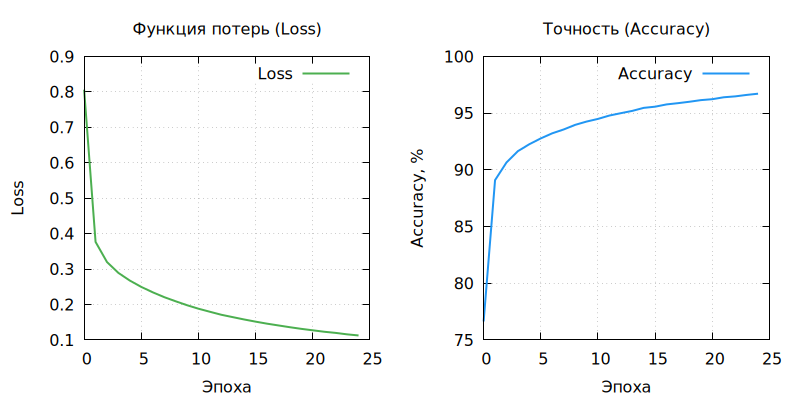
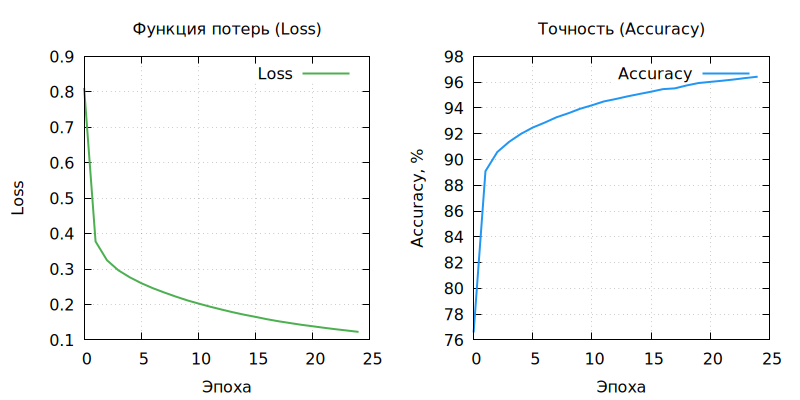
feat: add confusion matrix evaluation and training log
- add confusion_matrix method to NeuralNetwork
- make predict/evaluate/forward const-correct with mutable cache
- evaluate on test dataset after training
- display confusion matrix in console output
- add training log output to docs/training.log
- align training output with iomanip
- update README with confusion matrix and test accuracy

diff --git a/app/console_app/main.cpp b/app/console_app/main.cpp
@@ -4,6 +4,7 @@
 #include <cmath>
 #include <cstring>
 #include <fstream>
+#include <iomanip>
 #include <iostream>
 #include <string>
 #include <vector>
@@ -49,6 +50,41 @@ Matrix load_pgm_image(const std::string &filepath) {
   return img;
 }
 
+void evaluate_model(const NeuralNetwork &network, const std::string &data_dir) {
+  std::cout << "\nEvaluating on test dataset...\n";
+
+  auto test_data = ml::MNISTLoader::load_dataset(
+      data_dir + "/t10k-images-idx3-ubyte",
+      data_dir + "/t10k-labels-idx1-ubyte", 10000);
+
+  double test_accuracy = network.evaluate(test_data.images, test_data.labels);
+  std::cout << "Test accuracy: " << test_accuracy * 100 << "%\n";
+
+  auto cm = network.confusion_matrix(test_data.images, test_data.labels);
+
+  std::cout << "\nConfusion Matrix:\n";
+  std::cout << "    ";
+  for (int j = 0; j < NeuralNetwork::NUM_CLASSES; ++j) {
+    std::cout << std::setw(5) << j;
+  }
+  std::cout << "  | Total\n";
+
+  for (int i = 0; i < NeuralNetwork::NUM_CLASSES; ++i) {
+    std::cout << std::setw(2) << i << " |";
+    int row_sum = 0;
+    for (int j = 0; j < NeuralNetwork::NUM_CLASSES; ++j) {
+      row_sum += cm[i][j];
+      if (cm[i][j] > 0) {
+        std::cout << std::setw(5) << cm[i][j];
+      } else {
+        std::cout << "     ";
+      }
+    }
+    std::cout << "  | " << cm[i][i] << "/" << row_sum;
+    std::cout << "\n";
+  }
+}
+
 void train(const std::string &data_dir, const std::string &model_path,
            size_t epochs, double lr) {
   std::cout << "Loading MNIST dataset...\n";
@@ -68,14 +104,22 @@ void train(const std::string &data_dir, const std::string &model_path,
   std::cout << "Parameters: " << network.num_parameters() << "\n";
   std::cout << "Training " << epochs << " epochs, lr=" << lr << "...\n\n";
 
-  network.train(dataset.images, targets, epochs, lr, 64,
-                [](const TrainingMetrics &m) {
-                  std::cout << "Epoch " << m.epoch << " | Loss: " << m.loss
-                            << " | Accuracy: " << m.accuracy * 100 << "%\n";
-                });
+  network.train(
+      dataset.images, targets, epochs, lr, 64, [](const TrainingMetrics &m) {
+        std::cout << "Epoch " << std::setw(2) << m.epoch
+                  << " | Loss: " << std::setw(10) << std::fixed
+                  << std::setprecision(6) << m.loss
+                  << " | Accuracy: " << std::setw(7) << std::fixed
+                  << std::setprecision(2) << m.accuracy * 100 << "%\n";
+
+        static std::ofstream log("../docs/training.log");
+        log << m.epoch << " " << m.loss << " " << m.accuracy * 100 << "\n";
+      });
 
   network.save(model_path);
   std::cout << "\nModel saved to " << model_path << "\n";
+
+  evaluate_model(network, data_dir);
 }
 
 void predict(const std::string &model_path, const std::string &image_path) {

diff --git a/lib/ml/src/neural_network.cpp b/lib/ml/src/neural_network.cpp
@@ -15,7 +15,7 @@ NeuralNetwork::NeuralNetwork(const std::vector<LayerConfig> &config) {
   initialize_weights(config);
 }
 
-math::Matrix NeuralNetwork::forward(const math::Matrix &input) {
+math::Matrix NeuralNetwork::forward(const math::Matrix &input) const {
   layer_inputs_.clear();
   layer_outputs_.clear();
 
@@ -165,7 +165,7 @@ NeuralNetwork::train(const std::vector<math::Matrix> &inputs,
   return metrics;
 }
 
-int NeuralNetwork::predict(const math::Matrix &input) {
+int NeuralNetwork::predict(const math::Matrix &input) const {
   // прямой проход
   math::Matrix output = forward(input);
 
@@ -174,7 +174,8 @@ int NeuralNetwork::predict(const math::Matrix &input) {
       output.begin(), std::max_element(output.begin(), output.end())));
 }
 
-std::vector<double> NeuralNetwork::predict_proba(const math::Matrix &input) {
+std::vector<double>
+NeuralNetwork::predict_proba(const math::Matrix &input) const {
   // прямой проход
   math::Matrix output = forward(input);
 
@@ -183,7 +184,7 @@ std::vector<double> NeuralNetwork::predict_proba(const math::Matrix &input) {
 }
 
 double NeuralNetwork::evaluate(const std::vector<math::Matrix> &inputs,
-                               const std::vector<int> &labels) {
+                               const std::vector<int> &labels) const {
   size_t correct = 0;
 
   // сравнение предсказания с истинной меткой для каждого примера
@@ -211,6 +212,21 @@ size_t NeuralNetwork::num_parameters() const {
   }
 
   return count;
+}
+
+std::vector<std::vector<int>>
+NeuralNetwork::confusion_matrix(const std::vector<math::Matrix> &inputs,
+                                const std::vector<int> &labels) const {
+  std::vector<std::vector<int>> matrix(NUM_CLASSES,
+                                       std::vector<int>(NUM_CLASSES, 0));
+
+  for (size_t i = 0; i < inputs.size(); ++i) {
+    int pred = predict(inputs[i]);
+    int actual = labels[i];
+    matrix[actual][pred]++;
+  }
+
+  return matrix;
 }
 
 void NeuralNetwork::save(const std::string &filepath) const {

diff --git a/lib/ml/include/ml/neural_network.hpp b/lib/ml/include/ml/neural_network.hpp
@@ -24,7 +24,7 @@ public:
   NeuralNetwork() = default;
   explicit NeuralNetwork(const std::vector<LayerConfig> &config);
 
-  math::Matrix forward(const math::Matrix &input);
+  math::Matrix forward(const math::Matrix &input) const;
   void backward(const math::Matrix &input, const math::Matrix &target,
                 double learning_rate);
 
@@ -34,16 +34,23 @@ public:
         double learning_rate, size_t batch_size = 32,
         std::function<void(const TrainingMetrics &)> callback = nullptr);
 
-  int predict(const math::Matrix &input);
-  std::vector<double> predict_proba(const math::Matrix &input);
+  int predict(const math::Matrix &input) const;
+  std::vector<double> predict_proba(const math::Matrix &input) const;
   double evaluate(const std::vector<math::Matrix> &inputs,
-                  const std::vector<int> &labels);
+                  const std::vector<int> &labels) const;
 
   void save(const std::string &filepath) const;
   void load(const std::string &filepath);
 
   size_t num_layers() const { return weights_.size(); }
   size_t num_parameters() const;
+
+  std::vector<std::vector<int>>
+  confusion_matrix(const std::vector<math::Matrix> &inputs,
+                   const std::vector<int> &labels) const;
+
+public:
+  static constexpr int NUM_CLASSES = 10;
 
 private:
   std::vector<math::Matrix> weights_;

diff --git a/tests/test_neural_network.cpp b/tests/test_neural_network.cpp
@@ -28,7 +28,8 @@ TEST_F(NeuralNetworkTest, constructor) {
 }
 
 TEST_F(NeuralNetworkTest, constructor_empty_config) {
-  EXPECT_THROW(NeuralNetwork(std::vector<LayerConfig>{}), std::invalid_argument);
+  EXPECT_THROW(NeuralNetwork(std::vector<LayerConfig>{}),
+               std::invalid_argument);
 }
 
 TEST_F(NeuralNetworkTest, forward) {

diff --git a/README.md b/README.md
@@ -29,8 +29,11 @@
     ├── CMakeLists.txt              # Корневой сценарий сборки
     ├── data                        # Данные MNIST и модели
     │   ├── model.bin               # Обученная модель
-    │   ├── README.md
-    │   └── ...
+    │   ├── README.md               # Инструкция по скачиванию датасета
+    │   ├── t10k-images-idx3-ubyte  # Тестовые изображения
+    │   ├── t10k-labels-idx1-ubyte  # Тестовые метки
+    │   ├── train-images-idx3-ubyte # Обучающие изображения
+    │   └── train-labels-idx1-ubyte # Обучающие метки
     ├── docs                        # Документация приложения
     │   ├── plot.gnuplot            # Скрипт для построения
     │   ├── screenshot.png          # Скриншот главного окна GUI
@@ -55,6 +58,7 @@
     │           └── neural_network.cpp
     ├── README.md                   # Документация проекта
     └── tests                       # Тесты
+        ├── CMakeLists.txt
         ├── test_matrix.cpp         # Тесты матричной библиотеки
         ├── test_mnist_loader.cpp   # Тесты загрузчика данных
         ├── test_mnist.py           # Оценка точности на тестовой выборке (Python)
@@ -165,12 +169,35 @@ python3 ../tests/test_mnist.py
 | Функции активации | ReLU, Softmax |
 | Параметров | 52 650 |
 | Количество эпох | 25 |
-| Скорость обучения | 0.0001 |
-| Точность на обучении | 96.7% |
-| Точность на тесте (1000 примеров) | 95.9% |
-| Функция потерь | 0.113 |
+| Скорость обучения (learning rate) | 0.0001 |
+| Размер батча | 64 |
+| Точность на обучении | 96.43% |
+| Точность на тесте (10 000 примеров) | 96.05% |
+| Функция потерь | 0.123 |
+
+### Кривые обучения
 
 ![График обучения](docs/training_plot.png)
+
+## Матрица ошибок (**Confusion Matrix**)
+
+Матрица ошибок на тестовой выборке (10 000 примеров):
+
+|   | 0 | 1 | 2 | 3 | 4 | 5 | 6 | 7 | 8 | 9 | Всего |
+|---|:--:|:--:|:--:|:--:|:--:|:--:|:--:|:--:|:--:|:--:|:--:|
+| **0** | 968 | | | 1 | | 4 | 3 | 1 | 2 | 1 | 968/980 |
+| **1** | | 1113 | 4 | 3 | | 1 | 3 | 2 | 9 | | 1113/1135 |
+| **2** | 8 | 1 | 974 | 7 | 3 | 1 | 12 | 8 | 17 | 1 | 974/1032 |
+| **3** | | | 5 | 977 | 1 | 3 | 1 | 8 | 12 | 3 | 977/1010 |
+| **4** | 1 | | 6 | | 934 | 1 | 7 | 2 | 4 | 27 | 934/982 |
+| **5** | 9 | 1 | 2 | 14 | 2 | 849 | 2 | | 6 | 7 | 849/892 |
+| **6** | 9 | 3 | 1 | 1 | 5 | 10 | 923 | | 6 | | 923/958 |
+| **7** | 3 | 8 | 13 | 7 | 1 | 1 | | 970 | 2 | 23 | 970/1028 |
+| **8** | 5 | 1 | 1 | 10 | 3 | 3 | 4 | 5 | 939 | 3 | 939/974 |
+| **9** | 6 | 7 | 1 | 10 | 12 | 2 | 1 | 8 | 4 | 958 | 958/1009 |
+
+По диагонали — количество правильных предсказаний.  
+Основные ошибки: 5↔3, 9↔4, 7↔9, 2↔8.
 
 ## План разработки
 - [x] **Этап 1**: Структура проекта